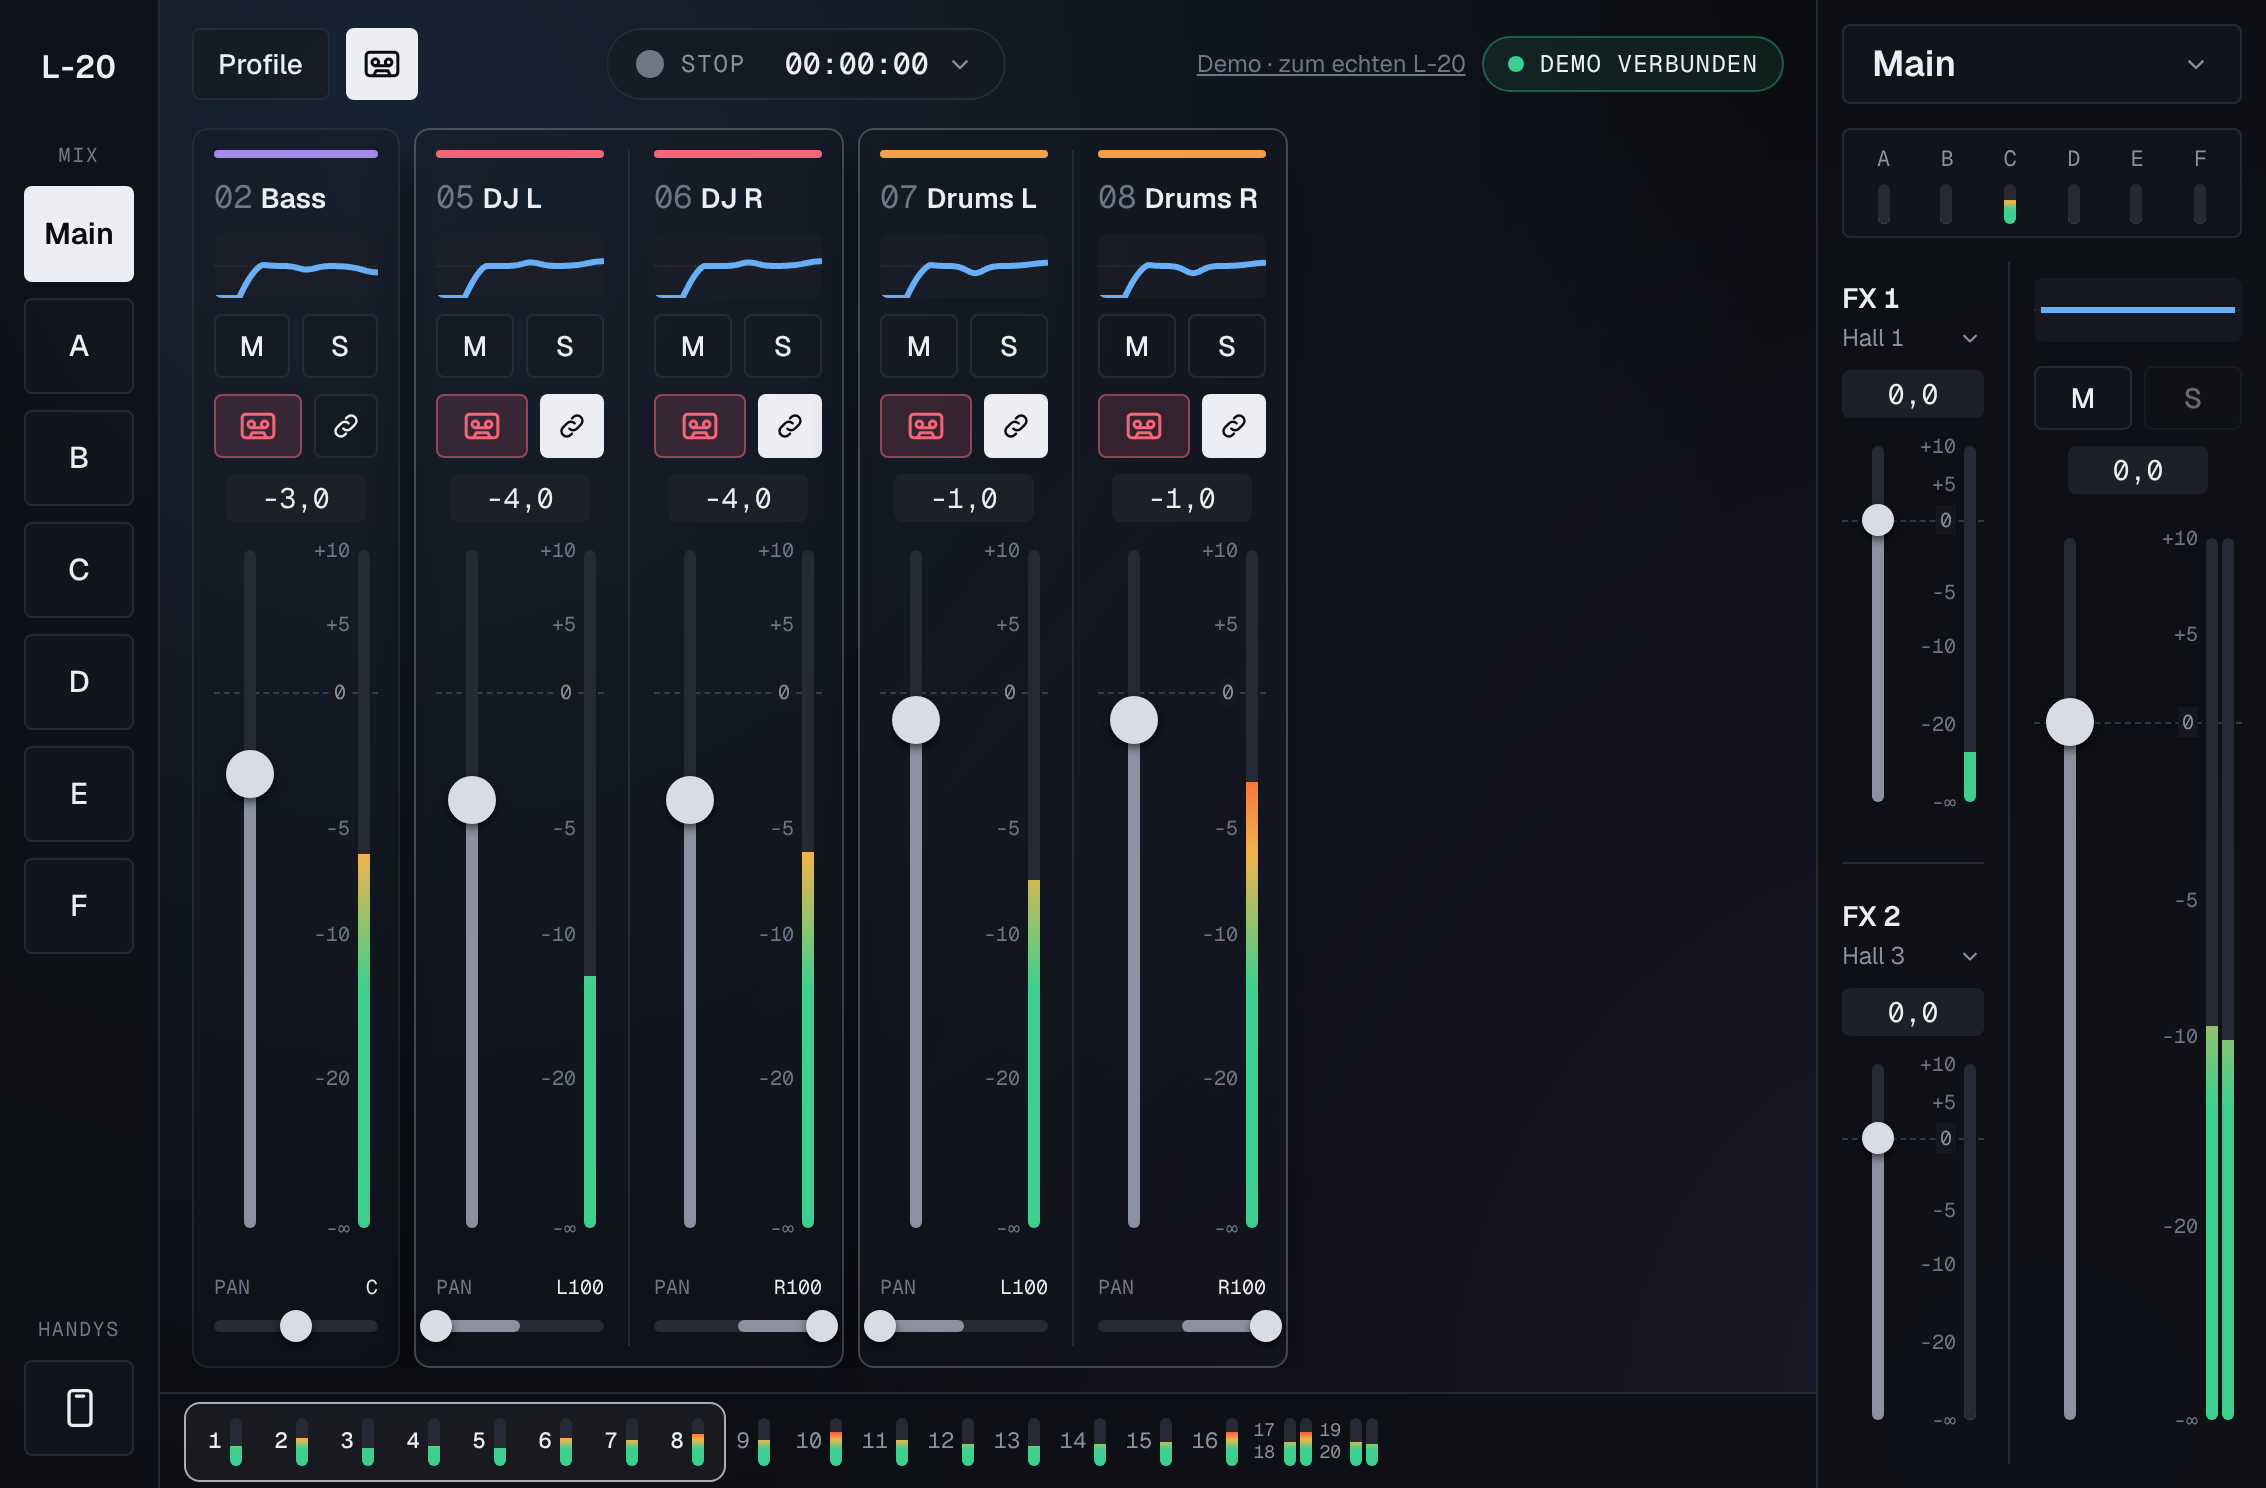
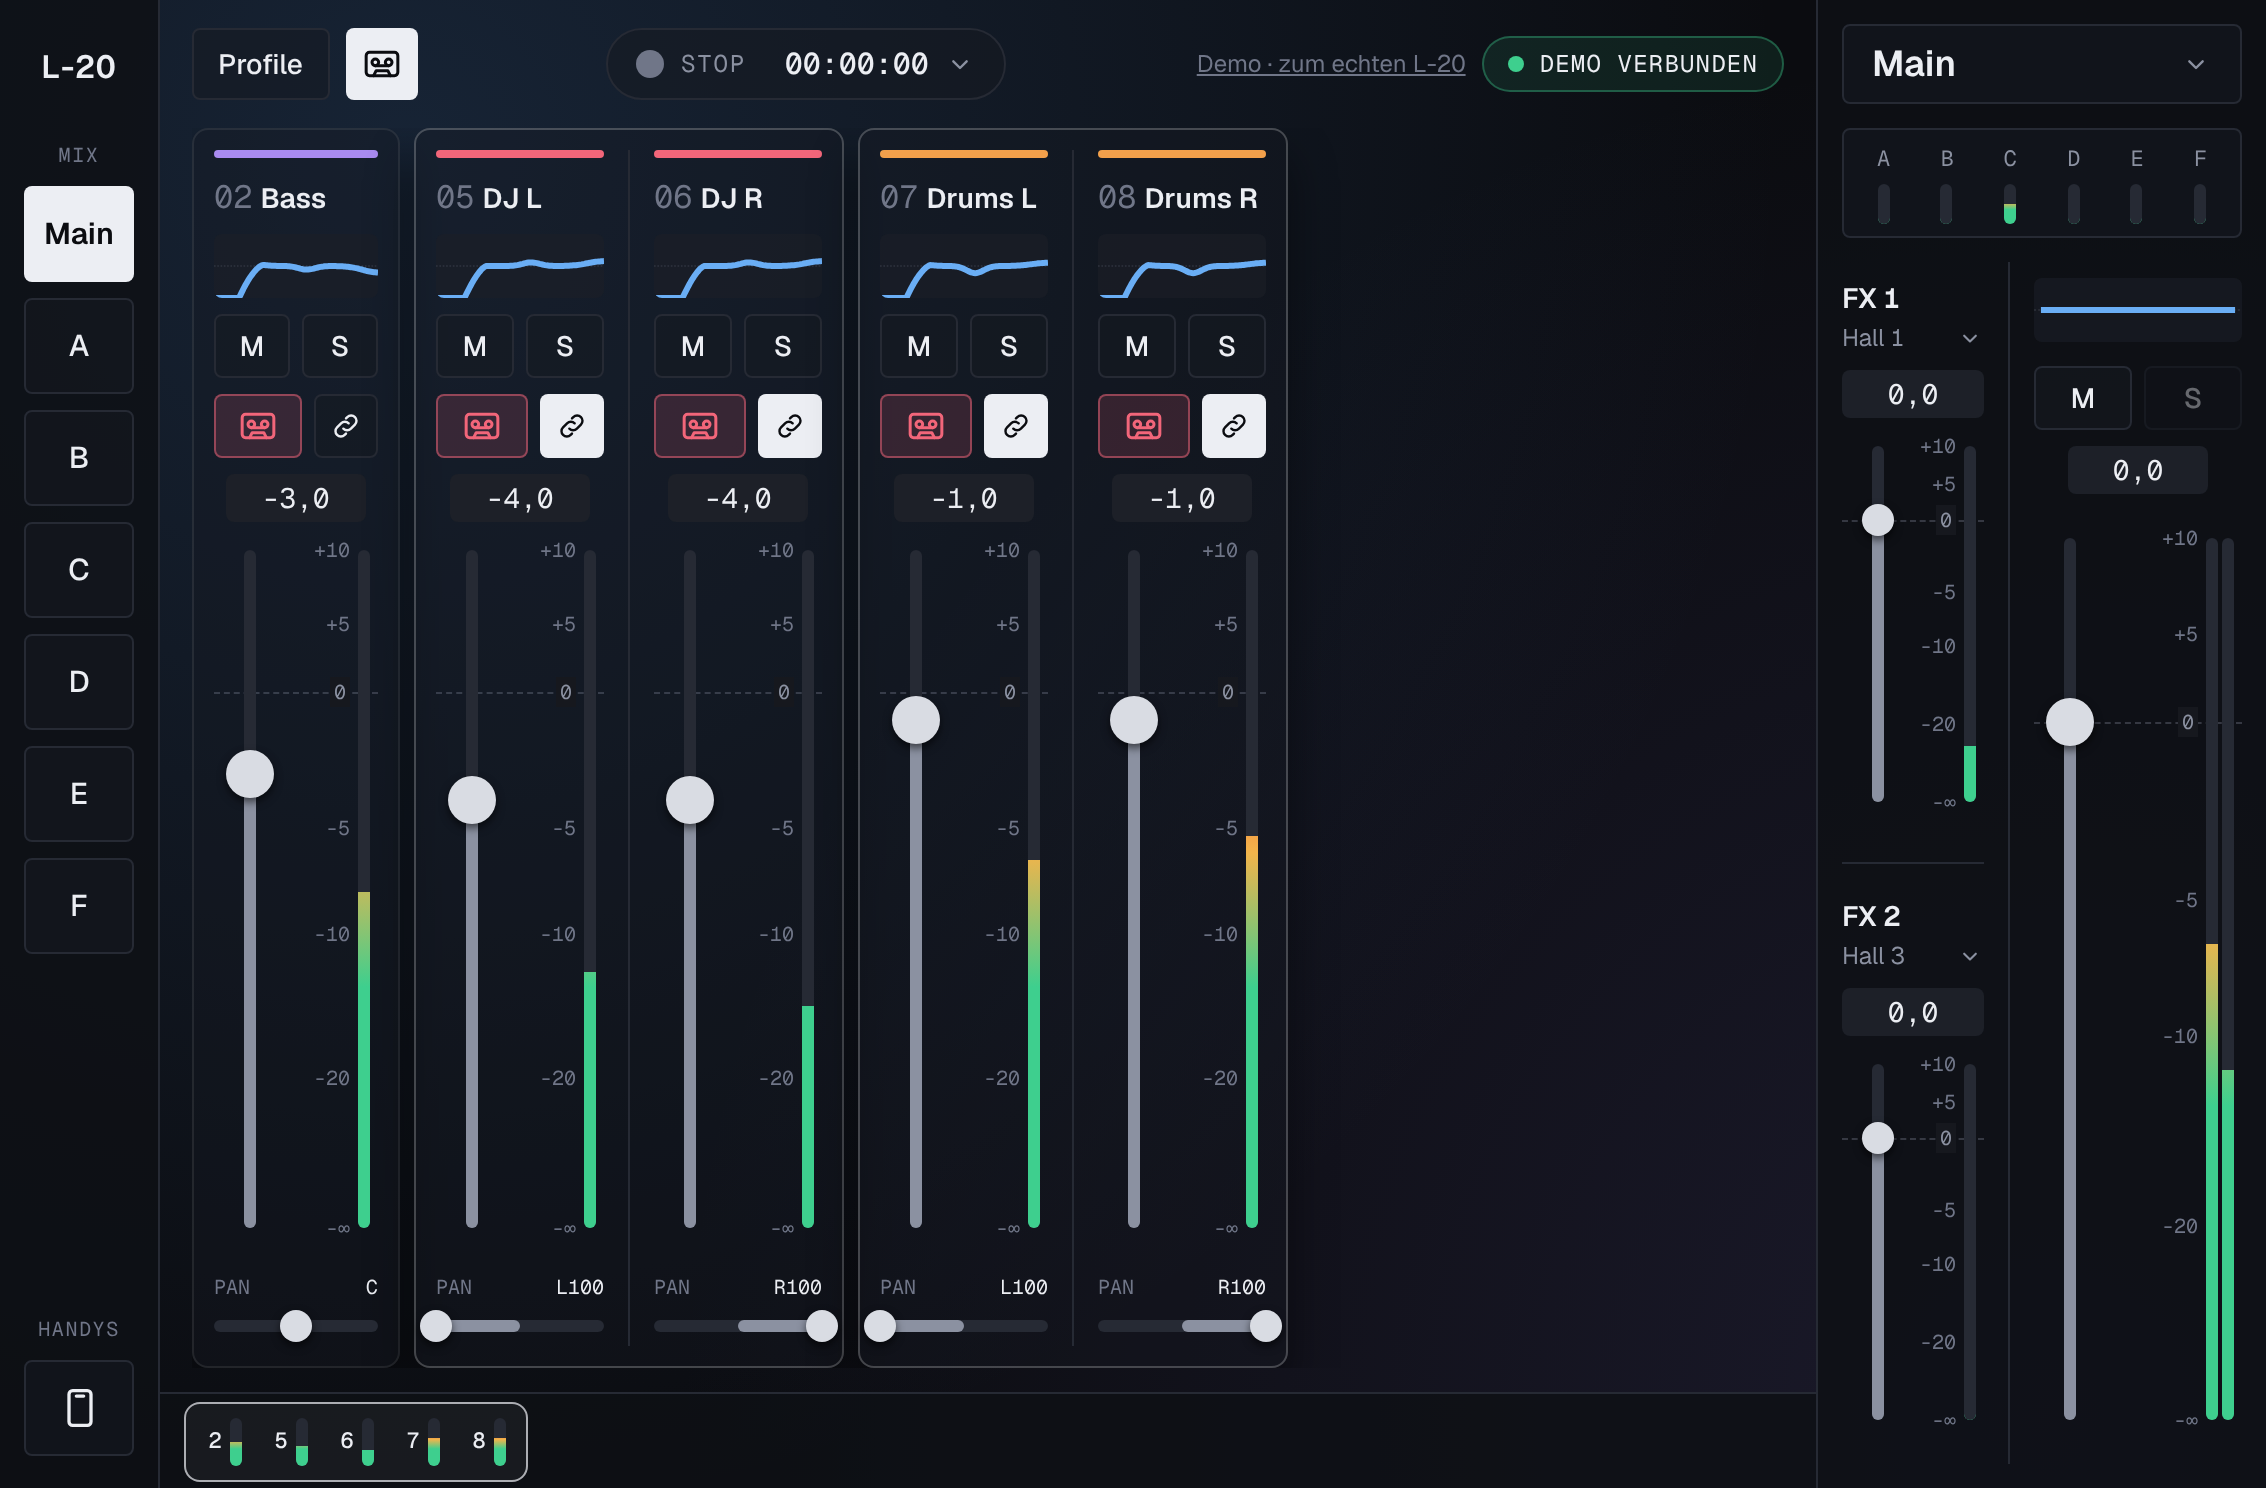
Nur-Select-Filter: Übersichtsleiste zeigt nur die gefilterten Kanäle
Claude-Session: https://claude.ai/code/session_01KbLEHxzsxzao1e8PDLg9ed

diff --git a/src/ui/screens/Console.tsx b/src/ui/screens/Console.tsx
@@ -1,3 +1,4 @@
+import { useEffect, useRef } from 'react'
 import {
   EFFECTS,
   NEXT_REC_SELECT,
@@ -12,6 +13,7 @@ import { Btn, Fader, Slider, Icon, Label, ValueBox } from '../components/control
 import { MiniEq, MiniGeq } from '../components/EqGraph'
 import {
   channelNo,
+  shownBySelect,
   REC_SELECT_TITLE,
   isFixedStereo,
   linkCommand,
@@ -37,22 +39,29 @@ export function Console({
   onVisible: (range: [number, number]) => void
 }) {
   const channels = useMixerStore((s) => s.mixer.channels)
-  const shown = (c: Channel) =>
-    !onlySelected ||
-    c.recSelect !== 'off' ||
-    (!!c.linkedWith && channels[c.linkedWith - 1].recSelect !== 'off')
+  const shown = (c: Channel) => !onlySelected || shownBySelect(channels, c)
+  const strips = useRef<HTMLDivElement>(null)
+  // a slot counts as on screen when more than half of it shows; positions count shown strips only
+  const report = (el: HTMLDivElement) =>
+    onVisible([
+      Math.round(el.scrollLeft / STRIP_W) + 1,
+      Math.round((el.scrollLeft + el.clientWidth) / STRIP_W),
+    ])
+  useEffect(() => {
+    if (!strips.current) return
+    strips.current.scrollLeft = 0
+    report(strips.current)
+    // only on toggle: jump back to the first strip and refresh the overview frame
+    // eslint-disable-next-line react-hooks/exhaustive-deps
+  }, [onlySelected])
   const none = onlySelected && !channels.some(shown)
   return (
     <div className="flex h-full gap-2">
       <div
         id="strips"
         className="flex min-w-0 flex-1 [scrollbar-width:none] gap-[7px] overflow-x-auto"
-        onScroll={(e) => {
-          const el = e.currentTarget
-          const first = Math.round(el.scrollLeft / STRIP_W) + 1
-          // a slot counts as on screen when more than half of it shows
-          onVisible([first, Math.round((el.scrollLeft + el.clientWidth) / STRIP_W)])
-        }}
+        ref={strips}
+        onScroll={(e) => report(e.currentTarget)}
       >
         {none && <p className="text-fg2 m-auto text-sm">Bei keinem Kanal ist Select (Tape) an.</p>}
         {channels.filter(shown).map((c) =>

diff --git a/src/ui/screens/Shell.tsx b/src/ui/screens/Shell.tsx
@@ -20,14 +20,7 @@ import {
   StatusPill,
   ValueBox,
 } from '../components/controls'
-import {
-  isFixedStereo,
-  mixLevel,
-  SLOT_COUNT,
-  slotChannel,
-  type Screen,
-  type View,
-} from '../mixView'
+import { isFixedStereo, mixLevel, slotChannel, type Screen, type View } from '../mixView'
 import { AdminDialog, ConnectSnackbar } from './Admin'
 import { DefaultProfilePrompt, ProfilesDialog } from './Profiles'
 
@@ -351,18 +344,20 @@ function TopBar({
  * `highlight` marks the channels currently on screen.
  */
 export function Overview({
+  slots,
   highlight,
   onOpen,
   onScroll,
 }: {
-  /** first and last slot on screen; slots count a fixed stereo pair once (see slotOf) */
+  /** slots to list (all, or only the "Nur Select" ones); a fixed stereo pair is one slot (see slotOf) */
+  slots: number[]
+  /** first and last position (1-based index into `slots`) on screen; none when 0 */
   highlight: [number, number]
   onOpen: (slot: number) => void
   onScroll: (dxSlots: number) => void
 }) {
   const meters = useMixerStore((s) => s.meters)
   const drag = useRef<{ x: number; moved: boolean } | null>(null)
-  const items = Array.from({ length: SLOT_COUNT }, (_, i) => i + 1)
   const STEP = 33
 
   return (
@@ -392,14 +387,15 @@ export function Overview({
     >
       <div className="relative flex">
         <div
+          hidden={highlight[0] < 1}
           className="border-fg/70 bg-fg/5 absolute -inset-y-1 rounded-lg border-[1.5px] transition-[left,width]"
           style={{
             left: (highlight[0] - 1) * STEP - 4,
-            width: (highlight[1] - highlight[0]) * STEP + 40,
+            width: (Math.min(highlight[1], slots.length) - highlight[0]) * STEP + 40,
           }}
         />
-        {items.map((slot) => {
-          const on = slot >= highlight[0] && slot <= highlight[1]
+        {slots.map((slot, i) => {
+          const on = i + 1 >= highlight[0] && i + 1 <= highlight[1]
           const ch = slotChannel(slot)
           const stereo = isFixedStereo(ch)
           return (

diff --git a/src/ui/App.tsx b/src/ui/App.tsx
@@ -5,7 +5,7 @@ import { ChannelDetail } from './screens/ChannelDetail'
 import { MasterDetail } from './screens/MasterDetail'
 import { Console, FxReturns, MasterStrip, MonitorPanel, STRIP_W } from './screens/Console'
 import { Phone, PhoneEntry } from './screens/Phone'
-import { slotChannel, slotOf, type View } from './mixView'
+import { shownBySelect, SLOT_COUNT, slotChannel, slotOf, type View } from './mixView'
 import { Overview, Shell } from './screens/Shell'
 
 // ?phone = a musician's phone (joins, waits for the admin); ?phone=C skips that for testing
@@ -28,6 +28,11 @@ function Ipad() {
   const [detail, setDetail] = useState<number | 'master' | null>(null)
   const [visible, setVisible] = useState<[number, number]>([1, 8])
   const [onlySelected, setOnlySelected] = useState(false)
+  const channels = useMixerStore((s) => s.mixer.channels)
+  const slots = Array.from({ length: SLOT_COUNT }, (_, i) => i + 1).filter(
+    (slot) => !onlySelected || shownBySelect(channels, channels[slotChannel(slot) - 1]),
+  )
+  const detailPos = typeof detail === 'number' ? slots.indexOf(slotOf(detail)) + 1 : 0
 
   const scrollTo = (ch: number) =>
     document.getElementById(`strip-${ch}`)?.scrollIntoView({ inline: 'start', block: 'nearest' })
@@ -54,7 +59,8 @@ function Ipad() {
       }
       overview={
         <Overview
-          highlight={typeof detail === 'number' ? [slotOf(detail), slotOf(detail)] : visible}
+          slots={slots}
+          highlight={typeof detail === 'number' ? [detailPos, detailPos] : visible}
           onOpen={(slot) => setDetail(slotChannel(slot))}
           onScroll={(dx) => document.getElementById('strips')?.scrollBy({ left: dx * STRIP_W })}
         />

diff --git a/src/ui/mixView.ts b/src/ui/mixView.ts
@@ -100,3 +100,7 @@ export const SLOT_COUNT = slotOf(CHANNEL_COUNT)
 /** First (left) channel of a slot. */
 export const slotChannel = (slot: number) =>
   slot + FIXED_STEREO.filter((left) => slotOf(left) < slot).length
+
+/** "Nur Select" filter: a channel shows when its Select is on, or its stereo-link partner's is. */
+export const shownBySelect = (channels: Channel[], c: Channel) =>
+  c.recSelect !== 'off' || (!!c.linkedWith && channels[c.linkedWith - 1].recSelect !== 'off')
